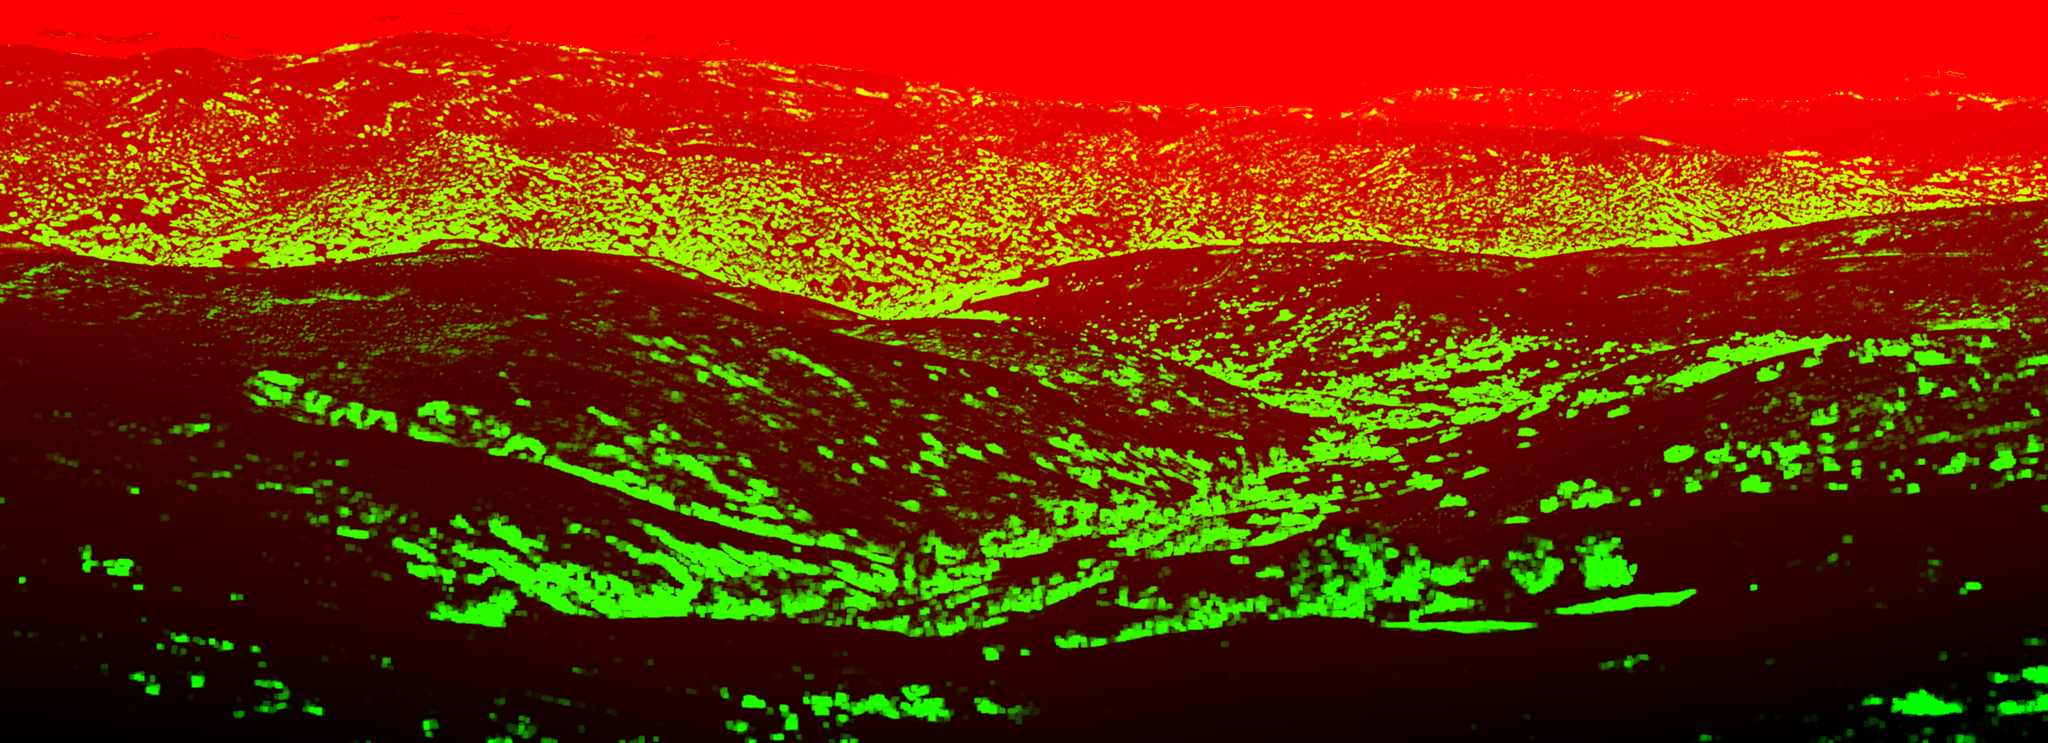
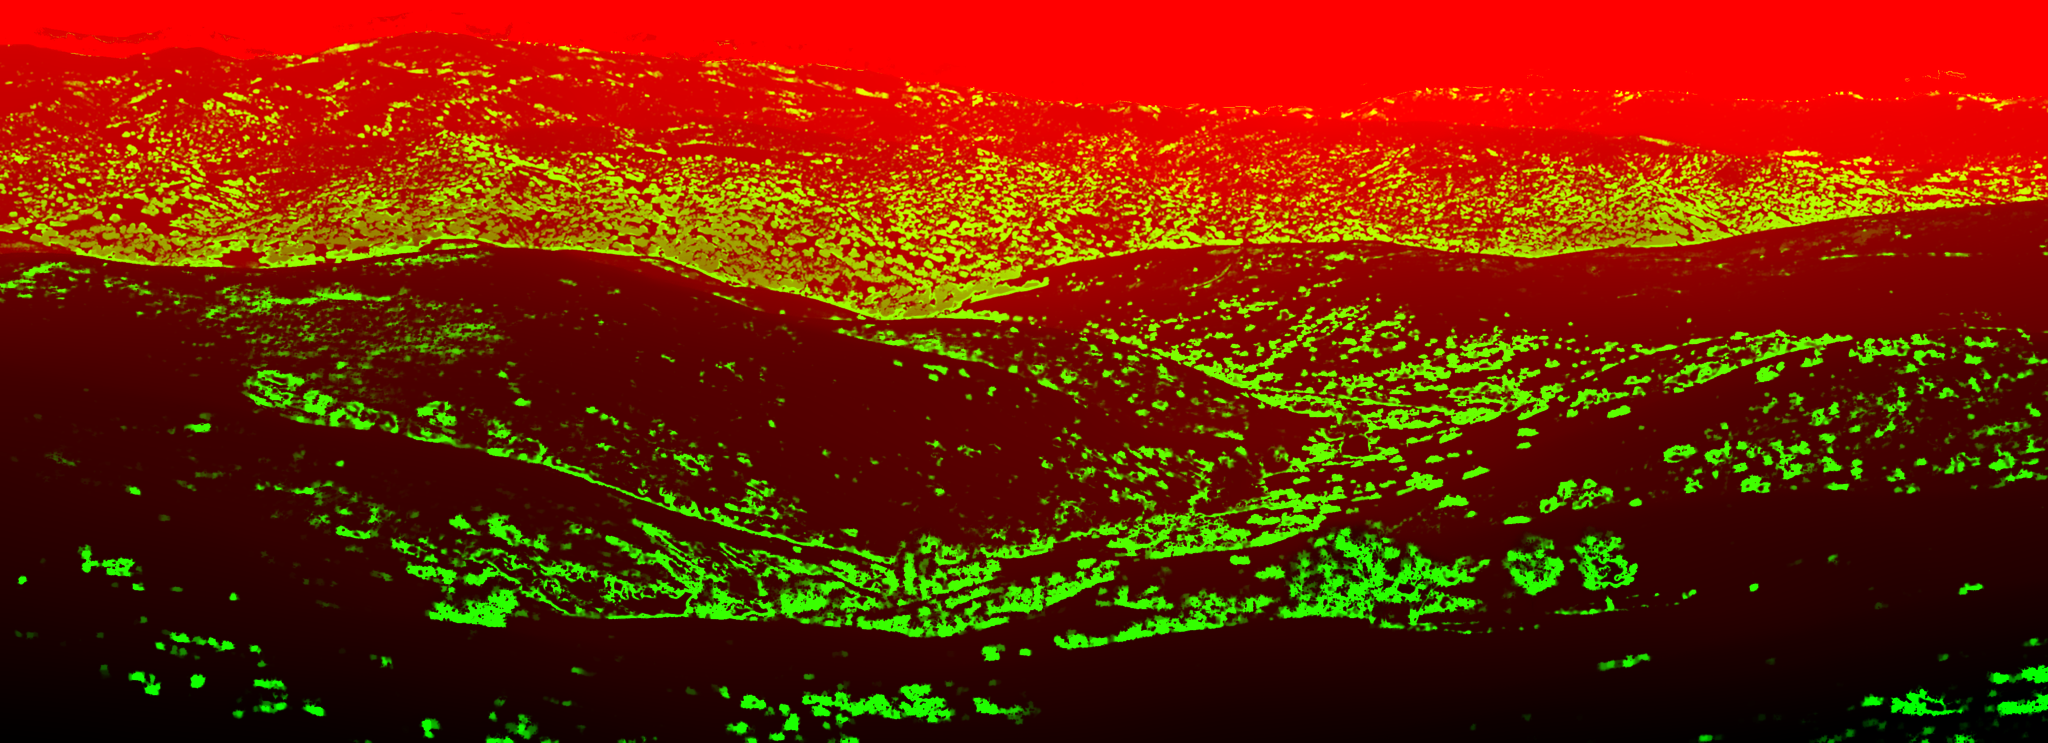
Make Weather's snow look like snow: trees shaped and capped, thin snow patchy
The tree mask was built of squares and took in the trees' soft shadows, so under
snow each oak was a hard-edged green block with a green bar under the near
three (and in winter the bars stayed green in the straw). It's remade from the
4096 px photo: within the old mask, a pixel is tree if it has a leaf's fine
texture and is darker than the ground round it; a shadow is smooth and drops
out; averaged down to the same 2048 px, its edges are the photo's own shapes.
The far woods keep the old mask. Under snow the oaks go charcoal-olive with
snow along the tops of their crowns, and under 5 cm the snow settles on the
brighter grass first, the photo's darkest fifth showing through, where it used
to whiten everything evenly into a grey ghost. Every other look is unchanged.
Shading the snow by the hills' slopes waits on a slope map that couldn't be
made from the 8-bit depth (the doc says why). +0.02 ms GPU in snow.

diff --git a/Sources/Atrium/Weather.swift b/Sources/Atrium/Weather.swift
@@ -976,13 +976,19 @@ class WeatherScene: SKScene, BatteryPaced {
             albedo = mix(albedo, mix(albedo, even, 0.7 * u_grass.a) * u_grass.rgb, clamp(green * (0.45 + 1.1 * patches), 0.0, 1.0));
         }
         // Snow on the ground: the open grass goes white, shaded by the photo's own light and shade so the hills keep
-        // their form; the trees darken, lose colour and catch snow on their brighter parts.
+        // their form. Thin snow lies on the brighter grass first: under 5 cm the darkest fifth (tufts, dry stems, the
+        // scrub) shows through. The oaks go charcoal-olive, with snow along the tops of their crowns (where the tree
+        // mask thins going up) and on their brighter leaves.
         if (u_snow > 0.0) {
             float lum = dot(albedo, vec3(0.3, 0.59, 0.11));
             vec3 snowy = vec3(0.86, 0.89, 0.94) * clamp(pow(lum / 0.42, 0.55), 0.45, 1.08);
-            vec3 trees = mix(vec3(lum), albedo, 0.35) * 0.62 + vec3(0.8, 0.83, 0.88) * smoothstep(0.3, 0.6, lum) * 0.35;
+            float thr = mix(0.6, 0.385, smoothstep(0.0, 0.6, u_snow)) - smoothstep(0.85, 1.0, u_snow);
+            float cover = smoothstep(thr - 0.05, thr + 0.05, lum) * min(u_snow * 3.0, 1.0);
+            float above = texture2D(u_aux, v_tex_coord + vec2(0.0, 0.008)).g;
+            float cap = max(smoothstep(0.1, 0.45, aux.g - above), smoothstep(0.32, 0.55, lum) * 0.6);
+            vec3 trees = mix(mix(vec3(lum) * vec3(1.0, 1.04, 0.86), albedo, 0.25) * 0.68, snowy, cap * 0.8);
             float open = 1.0 - smoothstep(0.3, 0.7, aux.g);
-            albedo = mix(albedo, mix(trees, snowy, open), u_snow * (0.55 + 0.45 * open));
+            albedo = mix(mix(albedo, trees, min(u_snow * 1.5, 1.0) * 0.9), mix(albedo, snowy, cover), open);
         }
         vec3 land = albedo * albedo * (u_light + vec3(0.75, 0.8, 1.0) * u_flash * 0.15);
         // The photo's far ridges are pale with its own haze. Against a low Sun or a twilight glow they should be

diff --git a/docs/weather.md b/docs/weather.md
@@ -38,7 +38,8 @@ Green California hills and oak woodland, from a real photo, under whatever the w
   - **Moon:** NASA's LRO near side (`weather-moon.png`, from the CGI Moon Kit), 15 pt in radius (about 2.5× true), at its real place, lit from the real Sun with 1.5% earthshine, and turned so its north points to the celestial pole, as in Night Sky. Its shading is `moonShade` (Shaders.swift, shared with Night Sky): McEwen's lunar-Lambert, as in The Moon, so a full Moon is flat to the limb and at other phases the light fades toward the terminator. Its light adds to the sky's, so by day the dim ground near the terminator fades into the blue; until 2026-10-03 a `smoothstep` cut it off sharply. It's tinted by moonlight through the air, and paler by day. `track()` moves the Sun and Moon every second, since a minute's step would be about the Sun's radius. The Moon also lights the sky as a second light at 2.5e−6·lit³ of the Sun.
   - **Ground:** a photo of Fort Ord National Monument (BLM California, public domain, 7379 px wide, shot on an overcast May morning, so there are no hard shadows to fight the real Sun) with the sky cut out, as `weather-ground.heic` (4096×1485 with alpha, 1.4 MB). `weather-ground-aux.png` (2048×743) holds its distance in red and its trees in green. Both are shared by every copy of the scene and let go with the last one showing them (`sharedTexture`), as are the packed cloud photos.
     - **Distance** is log distance, 0 nearest to 1 at the far mountains (32 times further), estimated offline by a research agent with Apple's Core ML Depth Anything V2 Small over overlapping tiles, fitted to a whole-image pass and snapped to the ridgelines with a guided filter. The valley floor reads 0.38, the oak ridge 0.74. The shader turns it into `(32^d − 1)/3.1`, 0 to 10. The first version was a per-column ramp up to the skyline, which made fog a flat wash.
-    - **Trees** are found as compact dark blobs (a black top-hat whose element shrinks with distance), so cloud shadows and shaded slopes aren't mistaken for woodland; a colour classifier flooded them. It's used soft: `1 − smoothstep(0.3, 0.7, tree)` is open ground.
+    - **Trees** are found as compact dark blobs (a black top-hat whose element shrinks with distance), so cloud shadows and shaded slopes aren't mistaken for woodland; a colour classifier flooded them. It's used soft: `1 − smoothstep(0.3, 0.7, tree)` is open ground, for the snow and the grass's year.
+      - **Remade nearer than the far woods** (2026-11-15): the first mask was built of squares and took in the trees' own soft shadows on the grass, so under snow each oak was a hard-edged block of green with a green bar under the three near trees, and in winter the bars stayed green in the straw. Within the old mask, grown a little, a pixel of the 4096-wide photo now counts as tree if it has a leaf's fine texture (the energy of the photo less its 1.2 px blur, over about 3 px: crowns 0.034–0.042, a tree's shadow 0.016–0.021, open grass 0.011–0.014) and is darker than the ground round it, closed over the gaps between leaves and averaged down to the aux map's 2048 px, so its edges are the photo's own shapes, feathered. A shadow is smooth, so it drops out. From 0.5 to 0.7 of the log distance it fades back to the old mask, since the far woods are all trees, too small and hazy to tell from their shadows. The distance (red) is unchanged, and so is every look but snow and the winter grass. The aux map stays 2048 px; the PNG is 40 KB smaller.
     - It covers the bottom 56% of the screen, cropped at the bottom on wider screens so the sky keeps its share. The horizon is at 0.45, just under the lowest point of the skyline.
     - **Light:** the shader treats the photo's colours (squared, roughly linear) as lit by the overcast it was taken in, and multiplies by `u_light`: skylight plus the Sun's (or the Moon's) direct light on the slopes that face it, over 8. `direct()` is `0.55·z + 0.35·front·cos + 0.15`, where `front` is 1 with the light behind the viewer. Facing a low Sun we see the hills' shaded sides, so there's little; just after sunrise only some slopes catch it (×0.4). Under a deck of cloud the light is grey, even and half the day's (`cloudiness`), darker for thicker cloud, plus skyglow at night.
     - **The year on the hills** (2026-11-15): the open grass follows the grass's year where you are (`Phenology.greenness`, Phenology.swift, moved for your latitude as for Pixel Railway's oaks): dormant straw through the winter, greening in patches from about three weeks before the oaks' buds break, at its peak from May, cured a little in late summer, and green until the hard freezes a few days after the oaks are bare, then straw again over four weeks. At 42°N that's straw from about mid-December to early April. The photo, shot in May, is near the peak (its open grass measures R/G 0.75, B/G 0.29 in linear light, against 0.70 and 0.30), so from May to the freezes it shows as it is and the shader's branch doesn't run. Otherwise `show` sets `u_grass`: rgb the multiplier that takes Fort Ord's grass to the season's colour (`grass(greenness:)`, after A Tree for the Year's PhenoCam research: straw is R/G 1.30, B/G 0.58 and 1.6 times as bright), and a how far from green it is. First the grass's own colour gives way, by `0.7·a`, to the grass's average at its own lightness: multiplied straight, the bluer grass in shade and the grey-green scrub came out lavender, since straw lifts blue relative to green. The oaks, the scrub the tree mask finds and the soil keep their colour. One noise read on the ground while it's on, within the render test's noise (0.35–0.40 ms either way at a clear noon). `weather.seasonDay` pins the day of the year for snapshots (only tests set it).
@@ -85,7 +86,10 @@ Green California hills and oak woodland, from a real photo, under whatever the w
 ## Time, live data and appearance
 - **Weather source:** Open-Meteo (`https://api.open-meteo.com/v1/forecast?latitude=…&longitude=…&current=weather_code,cloud_cover,cloud_cover_high,wind_speed_10m,wind_direction_10m,snow_depth,visibility`). It's free and needs no key, and is for non-commercial use.
   - `wind_direction_10m` (where it blows from) sets which way clouds drift and rain and snow lean (`windToward`).
-  - `snow_depth` lays snow on the ground (`snowCover`: a dusting at 1 cm, white by 5 cm), whether or not it's snowing now. The open grass turns white, shaded by the photo's own light and shade so the hills keep their form; the oaks (the aux texture's green) darken, lose colour and catch snow on their brighter parts.
+  - `snow_depth` lays snow on the ground (`snowCover`: a dusting at 1 cm, white by 5 cm), whether or not it's snowing now. The open grass turns white, shaded by the photo's own light and shade so the hills keep their form.
+    - **Thin snow** (2026-11-15) lies on the brighter grass first, as fresh snow settles on what faces the sky: under 5 cm the photo's darkest fifth (open grass below 0.385 in the shader's `lum`; tufts, dry stems, the scrub, the bare ground under the trees) shows through, the line moving down from the brightest grass at 1 cm to that fifth by 4 cm, and all white by 5. It used to whiten everything evenly by the depth, a grey ghost of snow at 2–3 cm.
+    - **The oaks** (the aux texture's green) go charcoal-olive (`lum·(1, 1.04, 0.86)`, a quarter of their own colour, at 0.68), with snow along the tops of their crowns, where the mask thins going up (one more read of the aux map, 0.8% of its height above), and on their brighter leaves. They had been darkened, desaturated green, 45% the photo's own, and with the old mask's squares each was a hard-edged dark green blob.
+    - The review also proposed shading the snow by the hills' slopes, bright faces and blue-grey hollows, in place of the photo's own light and shade, which follows the grass's texture. It needed the slope map of the hills' sunny side, which couldn't be made (Ideas, below), so the snow keeps the photo's shading.
   - `cloud_cover_high` sets the cirrus; `visibility` sets how thick fog is (0.9 at 100 m, 0.4 at 1 km).
   - The extras are optional in the decoder, since not every weather model has them.
   - It's polled 2 s after `didMove`, to give a remembered location fix a moment to land, then every 15 min, from an SKAction keyed "poll". Polling stops while the wallpaper is hidden.
@@ -144,6 +148,7 @@ What changed from it:
 - **The clouds' shader attributes are changed in place** (2026-10-14), and only when they differ, where every cloud made four new `SKAttributeValue`s every frame: partly cloudy, the update went from 19.9 to 18.9 µs a frame in a release build (six interleaved runs, the random draws pinned). Renders match the old code byte for byte at 4, 10 (and 3 s of frames), 30 and 120 s, and overcast at dusk with real-speed drift as frames.
 - **Lighting the cumulus by a low Sun** (2026-11-14) reads the sky twice more for each pixel of cloud. Partly cloudy from dawn to dusk, in a debug build on a busy Mac with the same clouds before and after: GPU 0.51–0.92 ms before, 0.52–0.89 after, CPU 0.5–0.7 both.
 - **The decks' low-Sun fixes** (2026-11-14) are arithmetic alone, no reads. Measured the same way from dawn to dusk: overcast GPU 0.50–0.54 ms before and 0.53–0.57 after, rain 0.88–0.93 and 0.87–0.92, storm 0.85–0.87 and 0.87–0.91, which is inside the spread between runs.
+- **The snow's remake** (2026-11-15): a clear-day snow at noon took 1.06–1.07 ms of GPU before and 1.08–1.09 after (one more read of the aux map on the ground; debug build, the render test, twice each, on a busy Mac).
 - **Drawing the sky only above the land** (2026-11-15) took a clear night from 0.76–0.77 ms of GPU to 0.54–0.55, and a partly cloudy noon from 0.69–0.76 to 0.51–0.57 (debug build, the render test, two runs each back to back, on a Mac busy with other builds).
 - Memory: the ground photo is 24 MB as a texture (4096×1485), the rest is small. Off the desktop it all goes; kept in statics it stayed for good (until 2026-10-14).
 
@@ -170,6 +175,7 @@ What changed from it:
 ## Ideas / next steps
 - An optional temperature readout with a °F/°C setting, which Dave was offered.
 - A speed setting for the stars' turn, if the real rate proves too slow to notice (Dave was fine with the real rate), and a length for the trails. The real stars are another step: Night Sky's catalogue puts 50 to 110 in this view (counted through a year's nights, 2026-11-14: the view is 3% of the sky and low in it, so the air dims them and about 40 would show), far fewer than the field's 11,000 or so.
+- **A sunny side for the hills** (tried 2026-11-15, the review's fourth suggestion, and dropped): `direct()` lights every slope alike, so 5 pm has the modelling of noon. The plan was a slope map baked from the depth, lit against the real Sun at about 40%. There's no float depth to bake from, only the 8-bit `weather-ground-aux.png`, and every way of smoothing it gave smudges that don't follow the hills: in the picture's own space (trees filled from the ground round them, a 15–21 px median, then σ 6–32 px) the terraces and the scrub's bumps went but what was left were soft dark blobs across the near spur, like cloud shadows, at 40% and plainly wrong at 90%; as a height field over the land (binned by across and log distance, so a near hill and the ridge behind never mix) the depth turned out not to be consistent enough in 3D, a land of pits and knobs. It needs a real depth: Depth Anything's float output kept from the first bake, or a DEM of Fort Ord (USGS 3DEP is public domain) registered to the photo.
 - A rainbow when it's showering with the Sun low behind the view (the research has the geometry: 42° around the antisolar point, red outside, a fainter reversed bow at 51°).
 - Cloud shadows drifting over the hills, and far rain shafts under showers.
 - Backlit photo clouds near the Sun, which the cutter couldn't separate from the glare: superseded on 2026-11-14 by lighting the cut-outs there are by where the Sun is (A low Sun, above).
